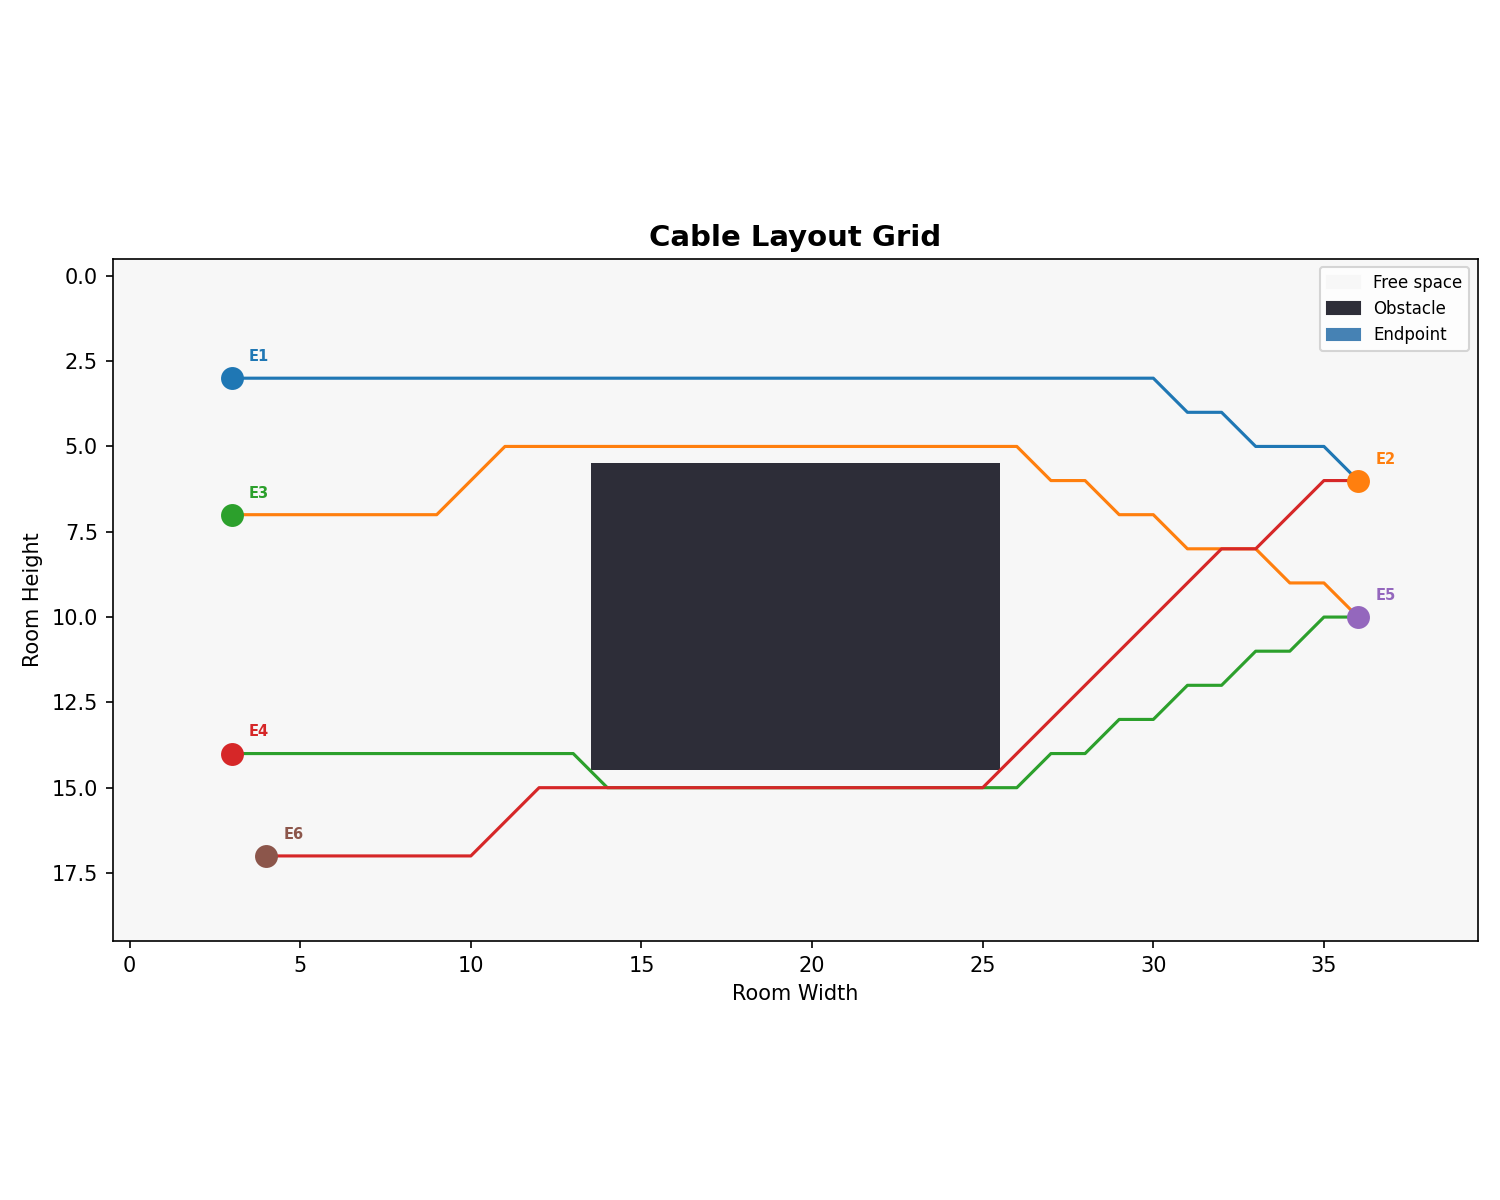
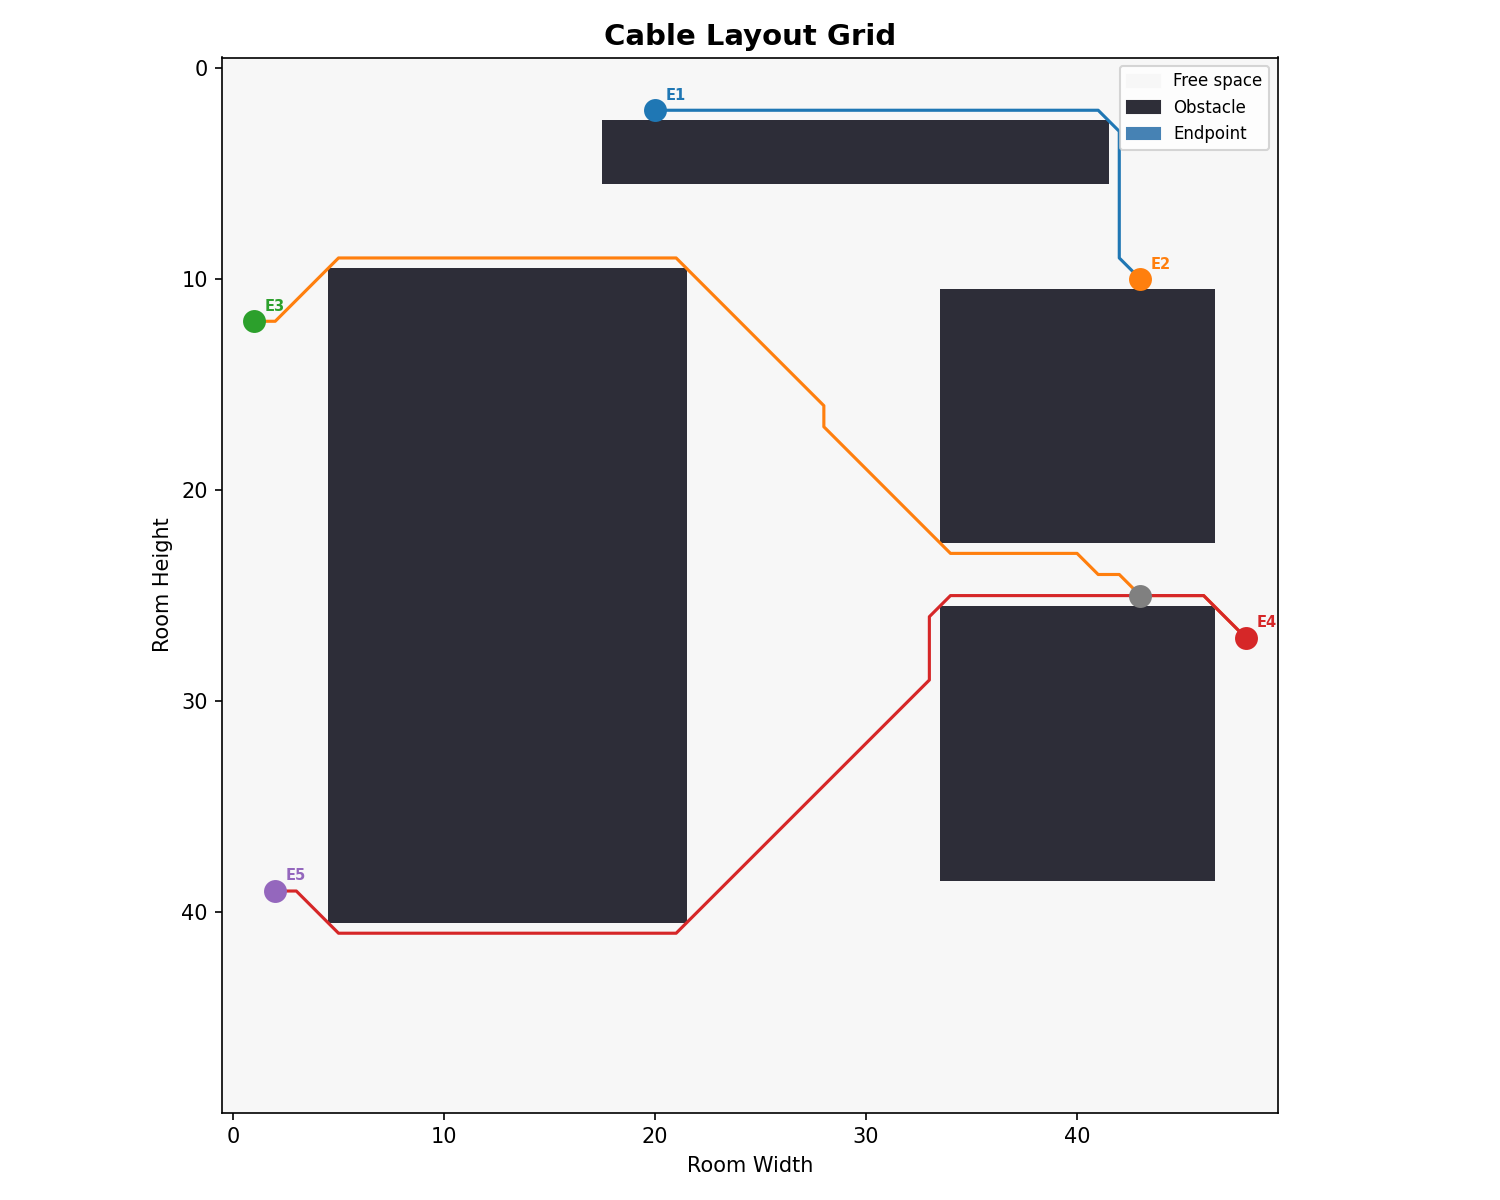
Quick layout search fix

diff --git a/Optimizer/main.py b/Optimizer/main.py
@@ -54,7 +54,7 @@ class ParsedLayout:
 
 
 def parse_json(path: str) -> tuple[Room, list[Obstacle], list[Endpoint]]:
-    with open(path) as f:
+    with open("Rooms/"+path) as f:
         data = json.load(f)
 
     # --- Room ---
@@ -336,18 +336,18 @@ ESP32_IP = '192.168.4.1' # This is the default IP
 PORT = 5005 
 
 sock = socket.socket(socket.AF_INET, socket.SOCK_STREAM)
-sock.connect((ESP32_IP, PORT))
+try:
+    sock.connect((ESP32_IP, PORT))
+except TimeoutError:
+    print("Device not connected to cable holder network, please restart.")
 
 def check_devices() -> int:
     print("Reading Network...")
-    try:
-        data = sock.recv(1024).decode().strip()
-        print(f'Received Data {data}')
-        return int(data)
-    except:
-        print("Device not connected to Cable Holder Network, trying again...")
+    data = sock.recv(1024).decode().strip()
     #num_nodes = data.parseInt()
-    
+    print(f'Received Data {data} Node(s) connected')
+    return int(data)
+
 #TODO: MAKE UI TO CUSTOMIZE ROOM LAYOUT
 
 def main():
@@ -370,8 +370,6 @@ def main():
     while True:
         num_nodes = check_devices()
         visualize_matplotlib(layout, num_nodes)
-
-
 
 if __name__ == "__main__":
     main()